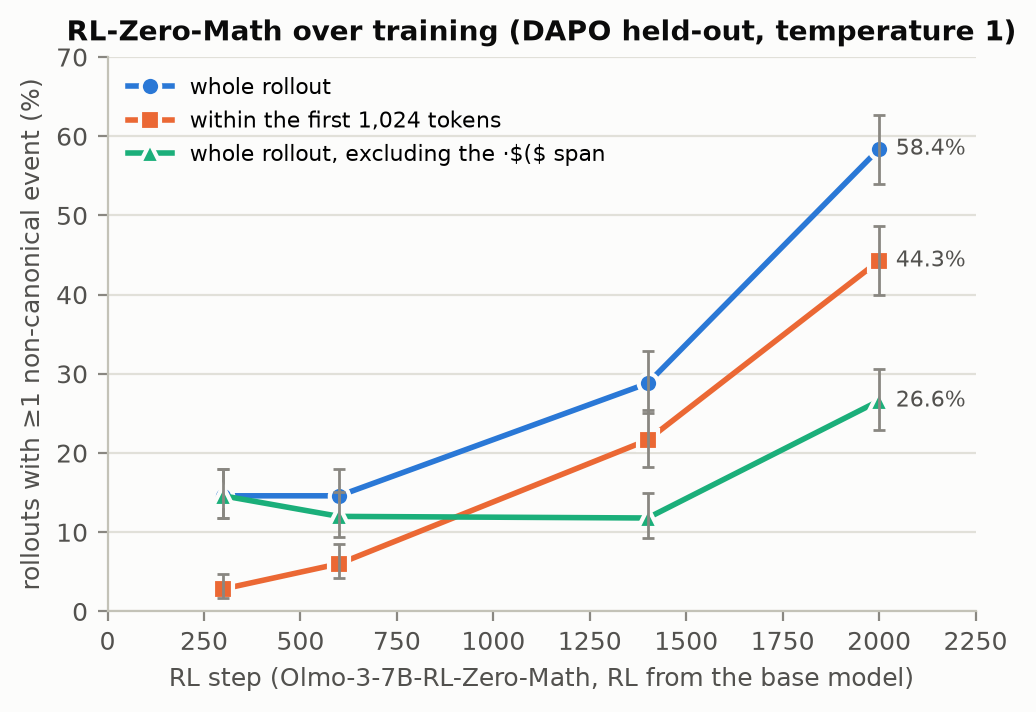
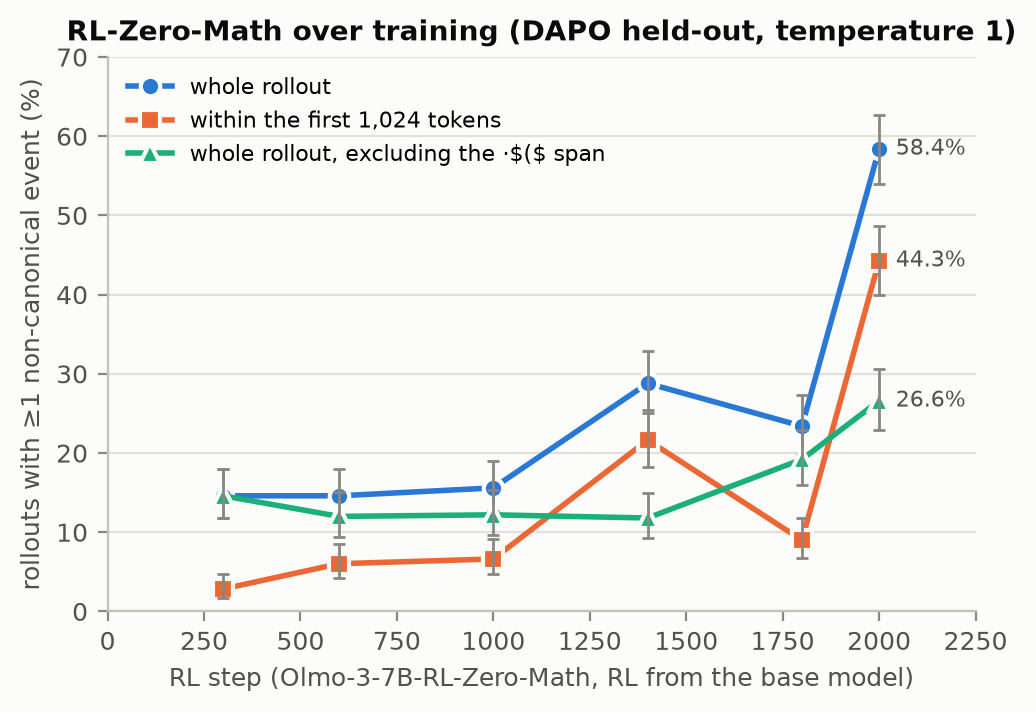
Draft and figures on the final data: six-step RL-Zero ladder, direct contagion test, all 17 RESULTS blocks verified; composition table with every step

diff --git a/WRITEUP_DRAFT.md b/WRITEUP_DRAFT.md
@@ -1,18 +1,18 @@
 # How big of a problem are non-canonical tokens for interpretability research?
 
-*Draft for the MATS application doc, to be rewritten in Brendan's voice. Figures come from `scripts/figures.py`, the examples from `scripts/random_examples.py`, the composition table from `scripts/flag_composition.py`. Numbers are from the generated tables in `RESULTS.md` except where noted: the divergence numbers (section 5) and RL-Zero steps 600 and 1400 come from `figures/data.json`, computed from the HF dataset, which is ahead of `RESULTS.md` for those cells. `[todo]` marks what needs Brendan.*
+*Draft for the MATS application doc, to be rewritten in Brendan's voice. Figures come from `scripts/figures.py`, the examples from `scripts/random_examples.py`, the composition table from `scripts/flag_composition.py`. Every number is from a generated table in `RESULTS.md` (all 17 blocks verified by `scripts/check_results.py` on 2026-09-04) or from `figures/data.json`, which the figure script writes from the same metrics. `[todo]` marks what needs Brendan.*
 
 ## Executive summary
 
 A language model can emit a token sequence whose decoded text re-tokenizes differently: `light` + `house` where the tokenizer would produce `l` + `ighthouse`. These non-canonical tokens are invisible in a transcript stored as text, so a probe or logit lens run on the re-tokenized text is looking at positions the model never computed, and non-canonical inputs are a known jailbreak vector. I wanted to know how often modern models do this on an ordinary task, which post-training stage moves the rate, and how far the computation diverges afterwards.
 
-I sampled 500 held-out DAPO math problems (and AIME 2024/2025 for three checkpoints) from every released post-training checkpoint of OLMo-3-7B Think and Instruct (SFT, DPO, RL), from four RL steps of OLMo-3-7B-RL-Zero-Math (RL directly on the base model), and from the Tulu-3-8B ladder as a second tokenizer: 14 checkpoints, 69 million generated tokens, emitted ids kept and checked by `encode(decode(ids)) != ids`. The statistic is the fraction of rollouts with at least one non-canonical event (a span or an unfinished multi-byte character).
+I sampled 500 held-out DAPO math problems (and AIME 2024/2025 for three checkpoints) from every released post-training checkpoint of OLMo-3-7B Think and Instruct (SFT, DPO, RL), from six RL steps of OLMo-3-7B-RL-Zero-Math (RL directly on the base model), and from the Tulu-3-8B ladder as a second tokenizer: 16 checkpoints, 75 million generated tokens, emitted ids kept and checked by `encode(decode(ids)) != ids`. The statistic is the fraction of rollouts with at least one non-canonical event (a span or an unfinished multi-byte character).
 
-**The answer to the title question.** For a shipped model it is a small problem: the OLMo-3 Think release has an event in 2% of its roughly 9,000-token math rollouts at its recommended sampling settings, and 10% at temperature 1. For intermediate checkpoints it is not small: the DPO checkpoint before it has an event in 15% of rollouts at recommended settings and 55% at temperature 1. When an event happens the damage is local. Teacher-forcing the same text as the emitted ids versus their canonical re-tokenization changes the next-token argmax at the span for 12–36% of spans, depending on the checkpoint, and the two distributions agree again within about 16 tokens (Figure 6).
+**The answer to the title question.** For a shipped model it is a small problem: the OLMo-3 Think release has an event in 2% of its 9,000-token math rollouts at its recommended sampling settings, and 10% at temperature 1. For intermediate checkpoints it is not small: the DPO checkpoint before it has one in 15% of rollouts at recommended settings and 55% at temperature 1. When an event happens the damage is local. Teacher-forcing the same text as the emitted ids versus their canonical re-tokenization changes the next-token argmax at the span for 12–36% of spans and the two distributions agree again within about 16 tokens (Figure 6).
 
 **My pre-registered prediction was wrong.** I predicted SFT ≈ DPO < RL, because on-policy RL is the only stage whose loss is computed on the ids the model actually emitted. Instead DPO, which trains on canonical text, raised the flagged fraction from 12% to 55% (Think) and 3% to 21% (Instruct), and on-policy RL brought it back to 10% and 6% (Figure 1). More than half of DPO's excess in Think is one span shape, a standalone space emitted at probability near 1 followed by a tail token; excluding that shape and byte fragments, DPO still flags 23% of rollouts against 10% for SFT and RL.
 
-**RL from the base model goes the other way, mostly through one habit.** RL-Zero-Math rises from 15% of rollouts at step 300 to 58% at step 2000. Three quarters of that is a single learned span at the start of the rollout (` $`+`($` where the tokenizer has ` $($`, in 210 of 500 rollouts). Excluding it, the rate is flat at 12–15% through step 1400 and doubles to 27% at step 2000.
+**RL from the base model goes the other way, mostly through one habit.** RL-Zero-Math is flat at 15% of rollouts from step 300 to 1000, then 29%, 23% and 58% at steps 1400, 1800 and 2000. The swings are one learned span at the start of the rollout (` $`+`($` where the tokenizer has ` $($`), in 99, 27 and 210 rollouts at those steps. Without it the rate is flat at 12–15% through step 1400, then 19% and 27%.
 
 **Tulu-3 does not move** (3–5% at every stage, Llama tokenizer), so the DPO spike may be specific to the OLMo-3 tokenizer or recipe. **This is not tail sampling:** in the three cells with logprob analysis, three quarters of spans begin with the model's argmax token, and the recommended settings lower the rate 3.6–8.5× without removing it.
 
@@ -63,7 +63,7 @@ I chose families with public per-stage checkpoints from one base, one tokenizer 
 |---|---|---|---|
 | OLMo-3-7B Think | Olmo-3-1025-7B | SFT → DPO → RL (final) | long CoT in `<think>`; SFT traces are re-tokenized DeepSeek R1 output |
 | OLMo-3-7B Instruct | same | SFT → DPO → RL (final) | short answers, no think block |
-| OLMo-3-7B RL-Zero-Math | same, no SFT | RL steps 300, 600, 1400, 2000 (final) [todo: 1000, 1800 pending] | RL directly on the base model; the chat template injects a fixed "solve step by step" instruction |
+| OLMo-3-7B RL-Zero-Math | same, no SFT | RL steps 300, 600, 1000, 1400, 1800, 2000 (final) | RL directly on the base model; the chat template injects a fixed "solve step by step" instruction |
 | Tulu-3-8B | Llama-3.1-8B | SFT → DPO → RLVR (PPO); Tulu-3.1 (GRPO from the same DPO) | different tokenizer and a different DPO recipe |
 
 Prompts are 500 problems from `open-r1/DAPO-Math-17k-Processed` (14,116 rows), filtered by normalized exact and 80-character-prefix match against the public OLMo-3 RL prompt sets (13,314 RL-Zero-Math prompts, 102,014 Think-RL prompts), which left 3,254 held-out problems; 500 were sampled with a fixed seed, one rollout each. AIME 2024 and 2025 (60 problems, 8 samples each) is a harder, decontaminated set run for three checkpoints. Answers are integers, so correctness is a deterministic check on the boxed answer. The held-out DAPO remainder is what AI2 did not select for RL and it skews easy: the Think ladder scores 97–99% on finished rollouts, while Instruct-SFT answers only 133 of 500 correctly and 85 do not parse.
@@ -101,11 +101,11 @@ In both tracks the DPO checkpoint flags far more rollouts than the SFT checkpoin
 
 Think-DPO's 55% is 231 bare-space spans and 107 byte fragments on top of 172 ordinary spans; SFT and RL final have 6 and 1 bare-space spans. Excluding both classes the DPO spike is 2.3× rather than 4.7×, still at p < 1e-6, and the ordering is unchanged. Instruct-DPO's 21% is ordinary spans. Both the bare-space habit and the ordinary-span increase appear at DPO and disappear at RL, so they are both DPO effects, but they should be counted separately, and the mechanism discussion below treats them separately.
 
-RL-Zero-Math rises across training, from 14.6% at steps 300 and 600 to 28.8% at step 1400 and 58.4% at step 2000 (Figure 2). Most of the rise is one learned span: ` $`+`($` at the third token of the rollout, where the model opens a LaTeX expression right after the template's instruction, in 16, 99 and 210 rollouts at steps 600, 1400 and 2000. Excluding that span the fraction is 14.6%, 12.0%, 11.8% and 26.6%: flat, then a doubling in the last 600 steps. Within the first 1,024 tokens the whole-rollout numbers are 2.8% → 6.0% → 21.6% → 44.3%, so length is not the driver.
+RL-Zero-Math is flat from step 300 to 1000 (14.6%, 14.6%, 15.6%), then 28.8% at step 1400, 23.4% at 1800 and 58.4% at 2000 (Figure 2). Accuracy (87–92%) and mean length (5,400–6,350 tokens) do not move. The non-monotone part is one learned span: ` $`+`($` at the third token of the rollout, where the model opens its first display equation right after the template's instruction, in 16, 17, 99, 27 and 210 rollouts at steps 600 to 2000. With that span removed the fractions are 14.6%, 12.0%, 12.2%, 11.8%, 19.2% and 26.6%, and within the first 256 tokens 0.6–2.2% at every checkpoint. So the run has two things going on: a habit for one LaTeX opener whose frequency swings between checkpoints, and a rise from 15% to 27% in the last 600 steps carried by spans that repeat many times inside single rollouts (`_g`+`b` 70 times in one rollout at step 1400, `=`+`Coin` 23 times in one at 1800). A finer checkpoint ladder around steps 1400–2000 would say whether the opener habit tracks something in the training data or reward; the released checkpoints cannot.
 
 ![Figure 2](figures/fig2_rlzero_steps.png)
 
-**Figure 2.** RL-Zero-Math over RL steps: rollouts with at least one event, on the whole rollout, within the first 1,024 tokens, and excluding the ` $($` span. [todo: steps 1000 and 1800 when they land.]
+**Figure 2.** RL-Zero-Math over RL steps: rollouts with at least one event, on the whole rollout, within the first 1,024 tokens, and excluding the ` $($` span.
 
 Tulu-3 does not move on whole rollouts: 5.2%, 3.0%, 2.8%, 3.4% across SFT, DPO, RLVR and Tulu-3.1, no pair significant, omnibus chi-square p = 0.16. Within the first 1,024 tokens its omnibus is p = 1e-06, which is Tulu-3-SFT's word-salad rollouts (13.2% of the 106 rollouts that reach 1,024 tokens, against ≤ 3.6% for the other stages). Tulu's DPO is not the same recipe as OLMo-3's (length-normalized DPO on GPT-4o-judged pairs versus the Dolci preference mixture) and its tokenizer is different, so this is a weak replication test, but it says the DPO spike is not a universal property of DPO.
 
@@ -137,7 +137,7 @@ Restricting to rollouts with the correct answer leaves the ordering unchanged (T
 
 ### 4. Does one event make the next more likely?
 
-Events could cluster within rollouts because some rollouts are prone or because an event raises the chance of the next one (Figure 5, details in `RESULTS.md`). The large cells have about as many rollouts with two or more events as a Poisson process at the cell's rate would give each rollout's length (Think-DPO 119 against 118 expected), so events are not concentrated in prone rollouts. Consecutive events do sit closer together than random placement in the same rollout in 9 of 12 cells, but restricting to consecutive events with different span text splits the story: in Think RL final, 84% of consecutive events repeat the same text and among the rest the clustering disappears (p = 0.33), likewise in RL-Zero step 2000 (41% repeats, p = 0.58), while in Think-DPO it stays (median gap 1,019 against 1,725 tokens, p < 0.0005). For the on-policy RL checkpoints, "contagion" is a learned tokenization repeating. For Think-DPO, events of different text cluster beyond what its count and length predict, which could be a local state (a stretch of text where the tail is being sampled) or the first event changing the model's state. The next section tests the second.
+Events could cluster within rollouts because some rollouts are prone or because an event raises the chance of the next one (Figure 5, details in `RESULTS.md`). The large cells have about as many rollouts with two or more events as a Poisson process at the cell's rate would give each rollout's length (Think-DPO 119 against 118 expected), so events are not concentrated in prone rollouts. Consecutive events do sit closer together than random placement in the same rollout in 9 of 12 cells, but restricting to consecutive events with different span text splits the story: in Think RL final, 84% of consecutive events repeat the same text and among the rest the clustering disappears (p = 0.33), likewise in RL-Zero step 2000 (41% repeats, p = 0.58), while in Think-DPO it stays (median gap 1,019 against 1,725 tokens, p < 0.0005). The direct test is to take consecutive spans in a rollout and ask whether the second span's first token is more likely under the real context, with the first span as emitted, than under the same context with the first span canonically re-tokenized. For RL-Zero step 2000's same-text pairs it is: 18 of 20 rollouts have a positive median log-probability difference (sign test p = 0.0004, pair-level median +0.85 nats), and the canonical alternative loses about 7 nats. So the repeated habit spans are in-context copying of a tokenization the model already produced, on top of the weight-level habit that produces the first one. For different-text pairs there is nothing: Think-DPO 38 of 85 rollouts positive (p = 1), RL-Zero 23 of 55 (p = 0.34). Think-DPO's clustering of different-text events is not contagion; those events cluster because the passage they sit in keeps the tail live.
 
 ![Figure 5](figures/fig5_clustering.png)
 
@@ -145,7 +145,7 @@ Events could cluster within rollouts because some rollouts are prone or because 
 
 ### 5. What a span does to the computation after it
 
-For each span I ran two teacher-forced forward passes over the same text with the model's real prefix. Sequence A is the ids the model emitted. Sequence B is identical up to the span and continues with the canonical re-tokenization of the text from the span on, spliced so that it matches the canonical tokenization of the whole text. The two sequences usually have different lengths after the span (`Are`+`ao`+`ct` is three tokens where `Area`+`oct` was two), so positions are compared at byte boundaries both tokenizations share: the end of the span, and every later token boundary that exists in both. At each shared boundary I recorded the KL divergence between the two next-token distributions, whether the argmax differs, and the logit-lens KL and residual cosine distance at layers 4, 8, ..., 28. Up to 3 spans per rollout and 400 per cell; spans with another event inside the 512-token window were skipped so the divergence measured is the span's own. Beyond the span the sequences also differ in position index, which sets a small floor far from the span. A first build that truncated the prefix to 4,096 tokens gave the same numbers on the large cells and up to 11 points lower argmax disagreement on the 13–15-span Instruct-SFT cell; the numbers here are the full-prefix rerun. [todo: `RESULTS.md` still shows the first build; regenerate before submitting.]
+For each span I ran two teacher-forced forward passes over the same text with the model's real prefix. Sequence A is the ids the model emitted. Sequence B is identical up to the span and continues with the canonical re-tokenization of the text from the span on, spliced so that it matches the canonical tokenization of the whole text. The two sequences usually have different lengths after the span (`Are`+`ao`+`ct` is three tokens where `Area`+`oct` was two), so positions are compared at byte boundaries both tokenizations share: the end of the span, and every later token boundary that exists in both. At each shared boundary I recorded the KL divergence between the two next-token distributions, whether the argmax differs, and the logit-lens KL and residual cosine distance at layers 4, 8, ..., 28. Up to 3 spans per rollout and 400 per cell; spans with another event inside the 512-token window were skipped so the divergence measured is the span's own. Beyond the span the sequences also differ in position index, which sets a small floor far from the span. A first build that truncated the prefix to 4,096 tokens gave the same numbers on the large cells and up to 11 points lower argmax disagreement on the 13–15-span Instruct-SFT cell; the numbers here are the full-prefix rerun. 
 
 At the span's end the two distributions differ: the argmax differs for 36% of Think-DPO spans, 24% of Think-SFT, 21% of Think RL final, 16% of RL-Zero step 2000 and 16–20% on the Instruct ladder, with median KL between 0.004 and 0.26 nats across the OLMo-3 cells. The difference decays fast: 5–16 tokens after the span the argmax differs at 2–3.4% of boundaries, and from 17 tokens on at 0.3–1.9%, with median KL at or below 0.001 nats. In the logit lens near the span there is no consistent middle-layer peak: the KL is largest at layers 24–28 in five of the eight cells and at layer 4 in the other three.
 
@@ -171,9 +171,9 @@ The pre-registered mechanism (on-policy RL releases the canonicalizing pressure 
 - **Sampling arms.** The recommended settings change temperature and top-p together, so their separate contributions are not measured.
 - **AIME** is 8 samples per problem with within-problem correlation, so its intervals are somewhat narrow.
 - **Correct versus incorrect** is underpowered in the Think track.
-- **Clustering baselines** control for depth but not for prompt.
+- **Clustering baselines** control for depth but not for prompt; the direct contagion test rests on 20 rollouts for RL-Zero and on two for Think RL final.
 - **Divergence** was measured on the eight OLMo-3 cells; the Tulu cells have 13–22 spans each and are not shown.
-- **RL-Zero curve** has four points [todo: six when steps 1000 and 1800 land].
+- **RL-Zero curve** has six checkpoints from one run; the opener habit swings between them, so the shape between checkpoints is unknown.
 
 ## Time spent and AI use
 

diff --git a/figures/flag_composition.md b/figures/flag_composition.md
@@ -5,7 +5,9 @@
 | Think RL final | 500 | 10.2% (51) | 5 / 1 / 107 | `_gb` (1) | 9.8% (49) [7.5–12.7] | 9.6% (48) [7.3–12.5] | 9.4% (47) [7.1–12.3] |
 | RL-Zero step 300 | 500 | 14.6% (73) | 0 / 1 / 165 | `·wherex` (1) | 14.6% (73) [11.8–18.0] | 14.4% (72) [11.6–17.7] | 14.4% (72) [11.6–17.7] |
 | RL-Zero step 600 | 500 | 14.6% (73) | 0 / 3 / 125 | `·$($` (16) | 14.6% (73) [11.8–18.0] | 14.0% (70) [11.2–17.3] | 11.4% (57) [8.9–14.5] |
+| RL-Zero step 1000 | 500 | 15.6% (78) | 0 / 0 / 145 | `·$($` (17) | 15.6% (78) [12.7–19.0] | 15.6% (78) [12.7–19.0] | 12.2% (61) [9.6–15.4] |
 | RL-Zero step 1400 | 500 | 28.8% (144) | 0 / 0 / 273 | `·$($` (99) | 28.8% (144) [25.0–32.9] | 28.8% (144) [25.0–32.9] | 11.8% (59) [9.3–14.9] |
+| RL-Zero step 1800 | 500 | 23.4% (117) | 1 / 0 / 265 | `·$($` (27) | 23.2% (116) [19.7–27.1] | 23.2% (116) [19.7–27.1] | 19.0% (95) [15.8–22.7] |
 | RL-Zero step 2000 | 500 | 58.4% (292) | 3 / 2 / 541 | `·$($` (210) | 58.0% (290) [53.6–62.2] | 58.0% (290) [53.6–62.2] | 26.0% (130) [22.3–30.0] |
 | Instruct-SFT | 500 | 3.4% (17) | 2 / 2 / 33 | `,YE` (1) | 3.4% (17) [2.1–5.4] | 3.0% (15) [1.8–4.9] | 2.8% (14) [1.7–4.6] |
 | Instruct-DPO | 500 | 21.0% (105) | 5 / 5 / 168 | `;}
